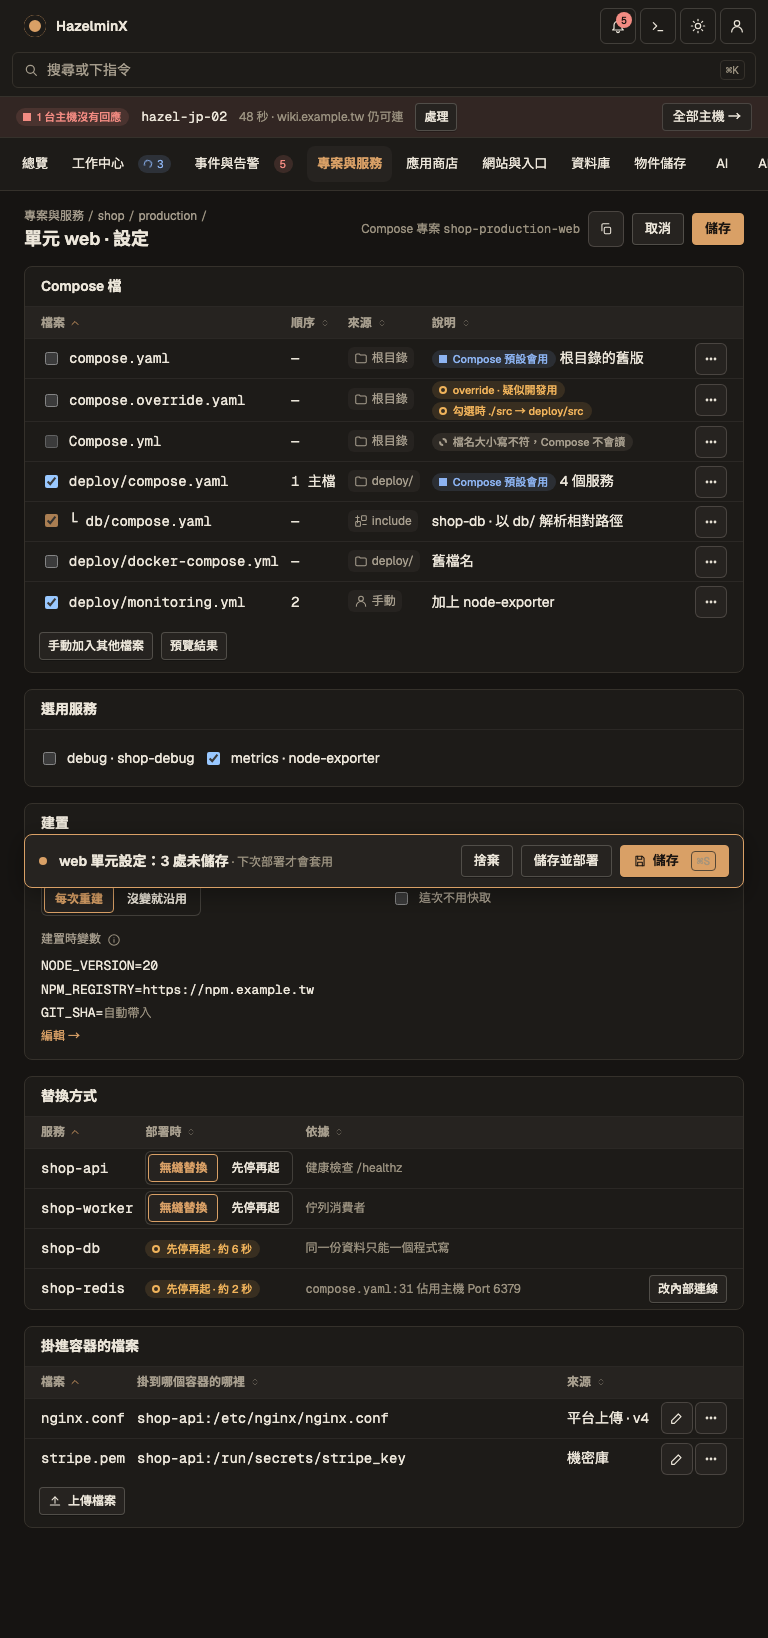
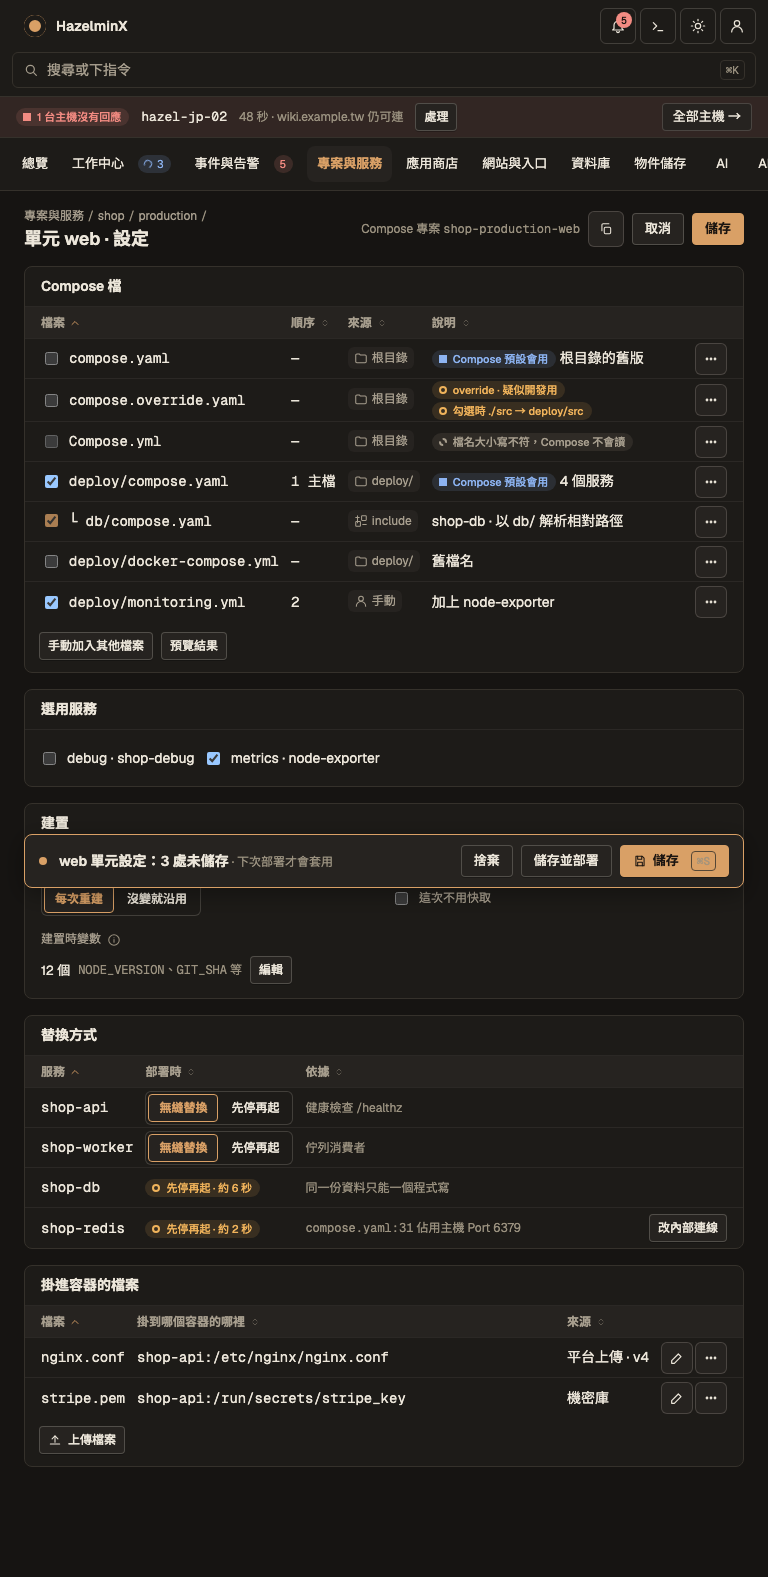
design: summarize build variables as a count with an edit button

diff --git a/design/screens/UnitConfig.dc.html b/design/screens/UnitConfig.dc.html
@@ -508,7 +508,7 @@ body{margin:0}
       <div style="padding:10px 14px 12px" class="wrap"><button type="button" class="btn sm">手動加入其他檔案</button><button type="button" class="btn sm" data-tip="把勾選的檔案照順序疊起來，再加上平台的覆寫，顯示真正會部署的完整 compose">預覽結果</button></div></section><div class="cg"><section class="panel"><div class="ph"><h2>選用服務</h2></div>
       <div style="padding:12px 14px;display:flex;flex-direction:column;gap:8px">
         <div class="wrap"><label style="display:flex;gap:8px;align-items:center;min-height:32px"><input type="checkbox">debug · shop-debug</label><label style="display:flex;gap:8px;align-items:center;min-height:32px"><input type="checkbox" checked>metrics · node-exporter</label></div>
-      </div></section><section class="panel"><div class="ph"><h2>建置</h2></div><div style="padding:14px 16px;display:grid;grid-template-columns:repeat(auto-fit,minmax(min(240px,100%),1fr));gap:14px"><div class="field"><label>每次部署</label><div class="range" role="group" aria-label="建置" style="flex-wrap:wrap;width:max-content;max-width:100%"><button type="button" class="btn on" aria-pressed="true">每次重建</button><button type="button" class="btn" aria-pressed="false">沒變就沿用</button></div></div><div class="field"><label>快取</label><label style="display:flex;gap:8px;align-items:center;min-height:32px"><input type="checkbox">這次不用快取</label></div><div class="field"><label>建置時變數 <span class="hint" tabindex="0" role="img" aria-label="只在建置映像時用，不會進到執行中的容器" data-tip="只在建置映像時用，不會進到執行中的容器"><svg viewBox="0 0 24 24" width="14" height="14" fill="none" stroke="currentColor" stroke-width="1.8" stroke-linecap="round" stroke-linejoin="round" aria-hidden="true"><circle cx="12" cy="12" r="9"/><path d="M12 11v5M12 8h.01"/></svg></span></label><div style="display:flex;flex-direction:column;gap:4px;font-size:13px"><span class="mono">NODE_VERSION=20</span><span class="mono">NPM_REGISTRY=https://npm.example.tw</span><span class="mono">GIT_SHA=<span class="note">自動帶入</span></span><a href="ProjectEnv.dc.html" style="color:var(--hazel);font-size:12px">編輯 →</a></div></div></div></section></div><section class="panel"><div class="ph"><h2>替換方式</h2></div>
+      </div></section><section class="panel"><div class="ph"><h2>建置</h2></div><div style="padding:14px 16px;display:grid;grid-template-columns:repeat(auto-fit,minmax(min(240px,100%),1fr));gap:14px"><div class="field"><label>每次部署</label><div class="range" role="group" aria-label="建置" style="flex-wrap:wrap;width:max-content;max-width:100%"><button type="button" class="btn on" aria-pressed="true">每次重建</button><button type="button" class="btn" aria-pressed="false">沒變就沿用</button></div></div><div class="field"><label>快取</label><label style="display:flex;gap:8px;align-items:center;min-height:32px"><input type="checkbox">這次不用快取</label></div><div class="field"><label>建置時變數 <span class="hint" tabindex="0" role="img" aria-label="只在建置映像時用，不會進到執行中的容器" data-tip="只在建置映像時用，不會進到執行中的容器"><svg viewBox="0 0 24 24" width="14" height="14" fill="none" stroke="currentColor" stroke-width="1.8" stroke-linecap="round" stroke-linejoin="round" aria-hidden="true"><circle cx="12" cy="12" r="9"/><path d="M12 11v5M12 8h.01"/></svg></span></label><div class="wrap" style="font-size:13px;min-width:0"><span style="flex:none">12 個</span><span class="note" style="min-width:0;overflow-wrap:anywhere"><span class="mono">NODE_VERSION</span>、<span class="mono">GIT_SHA</span> 等</span><a class="btn sm" href="ProjectEnv.dc.html" style="flex:none">編輯</a></div></div></div></section></div><section class="panel"><div class="ph"><h2>替換方式</h2></div>
       <div class="tw" style="--tc:auto auto var(--k3,minmax(min(160px,34%),1fr)) auto"><div class="row hd r0"><span class=""><span class="sortable on">服務 <svg viewBox="0 0 24 24" width="12" height="12" fill="none" stroke="currentColor" stroke-width="1.8" stroke-linecap="round" stroke-linejoin="round" aria-hidden="true"><path d="m6 15 6-6 6 6"/></svg></span></span><span class=""><span class="sortable">部署時 <svg viewBox="0 0 24 24" width="12" height="12" fill="none" stroke="currentColor" stroke-width="1.8" stroke-linecap="round" stroke-linejoin="round" aria-hidden="true"><path d="m8 10 4-4 4 4"/><path d="m8 14 4 4 4-4"/></svg></span></span><span class="c3"><span class="sortable">依據 <svg viewBox="0 0 24 24" width="12" height="12" fill="none" stroke="currentColor" stroke-width="1.8" stroke-linecap="round" stroke-linejoin="round" aria-hidden="true"><path d="m8 10 4-4 4 4"/><path d="m8 14 4 4 4-4"/></svg></span></span><span class=""></span></div>
       <div class="row r0"><span class="mono">shop-api</span><span><div class="range" role="group" aria-label="shop-api" style="flex-wrap:wrap;width:max-content;max-width:100%"><button type="button" class="btn on" aria-pressed="true">無縫替換</button><button type="button" class="btn" aria-pressed="false">先停再起</button></div></span><span class="c3 note">健康檢查 /healthz</span><span></span></div>
       <div class="row r0"><span class="mono">shop-worker</span><span><div class="range" role="group" aria-label="shop-worker" style="flex-wrap:wrap;width:max-content;max-width:100%"><button type="button" class="btn on" aria-pressed="true">無縫替換</button><button type="button" class="btn" aria-pressed="false">先停再起</button></div></span><span class="c3 note">佇列消費者</span><span></span></div>

diff --git a/design/tools/build_screens.py b/design/tools/build_screens.py
@@ -4410,7 +4410,7 @@ def unit_config() -> str:
     build = _fp("建置", _grid(
         _fld("每次部署", _seg(["每次重建", "沒變就沿用"], 0, "建置")),
         _fld("快取", _cb("這次不用快取", False)),
-        _fld("建置時變數", '<div style="display:flex;flex-direction:column;gap:4px;font-size:13px"><span class="mono">NODE_VERSION=20</span><span class="mono">NPM_REGISTRY=https://npm.example.tw</span><span class="mono">GIT_SHA=<span class="note">自動帶入</span></span><a href="ProjectEnv.dc.html" style="color:var(--hazel);font-size:12px">編輯 →</a></div>', "只在建置映像時用，不會進到執行中的容器")))
+        _fld("建置時變數", '<div class="wrap" style="font-size:13px;min-width:0"><span style="flex:none">12 個</span><span class="note" style="min-width:0;overflow-wrap:anywhere"><span class="mono">NODE_VERSION</span>、<span class="mono">GIT_SHA</span> 等</span><a class="btn sm" href="ProjectEnv.dc.html" style="flex:none">編輯</a></div>', "只在建置映像時用，不會進到執行中的容器")))
     cfiles = _fp("掛進容器的檔案", f"""
       <div class="row hd"><span>檔案</span><span>掛到哪個容器的哪裡</span><span class="c3">來源</span><span></span></div>
       <div class="row"><span class="mono">nginx.conf</span><span class="mono">shop-api:/etc/nginx/nginx.conf</span><span class="c3">平台上傳 · v4</span><span>{U.actions(["rename", "more"])}</span></div>
